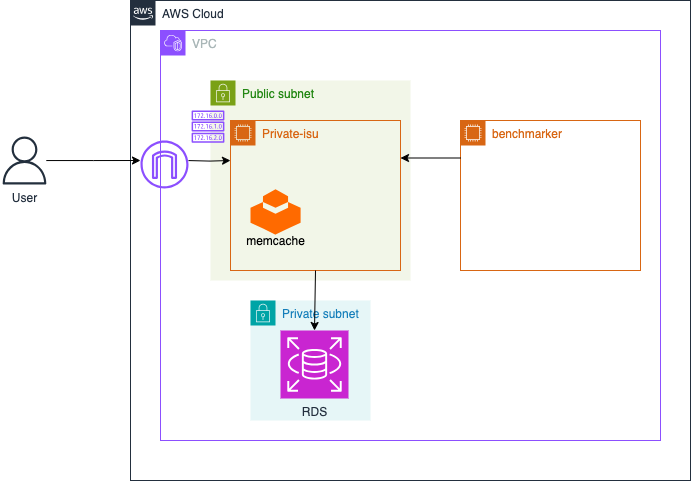
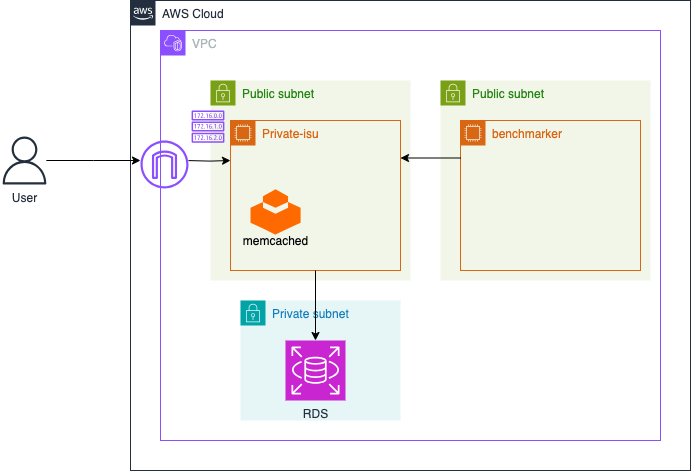
03~05までの構成図を更新

diff --git a/05-athena-log-analysis/README.md b/05-athena-log-analysis/README.md
@@ -1,4 +1,5 @@
 # 概要
+![05](../images/Private-isu05.png) 
 本セクションでは、Amazon Athena を使用して、S3バケットに保存されたALB (Application Load Balancer) のアクセスログを分析します。Athenaはサーバーレスのインタラクティブクエリサービスであり、標準SQLを使用してS3上のデータを直接、簡単に分析できます。
 
 この分析を通じて、Private-isuアプリケーションのどのパスが多くアクセスされているか、レスポンスタイムが遅いリクエストは何か、エラーが発生している箇所はどこか、といった情報を把握し、パフォーマンス改善のヒントを得ることを目的とします。

diff --git a/03-database-migration-to-aurora/README.md b/03-database-migration-to-aurora/README.md
@@ -1,5 +1,5 @@
 # 概要
-![02](../images/Private-isu03.png)  
+![03](../images/Private-isu03.png)  
 本セクションではPrivate-isuインスタンス内で稼働していたMySQLをAWSのマネージド型リレーショナルデータベースサービスであるAmazon RDSに切り出していきます。  
 RDSではクラスターと呼ばれる構成で、読み書き可能なプライマリDBインスタンスと、読み取りのみのレプリカDBインスタンス、クラスタボリュームを管理しています。  
 また、アプリケーションからアクセスする為のネットワーク経路もRDS用に必要となっています。  

diff --git a/04-adding-alb/README.md b/04-adding-alb/README.md
@@ -1,4 +1,5 @@
 # 概要
+![04](../images/Private-isu04.png)  
 本セクションでは、Private-isuアプリケーションの前にApplication Load Balancer (ALB) を導入します。ALBはOSI参照モデルの第7層（アプリケーション層）で動作するロードバランサーで、HTTP/HTTPSトラフィックを複数のターゲット（この時点ではEC2インスタンス1台）に分散します。
 
 ALBを導入する主な目的は以下の2点です。
